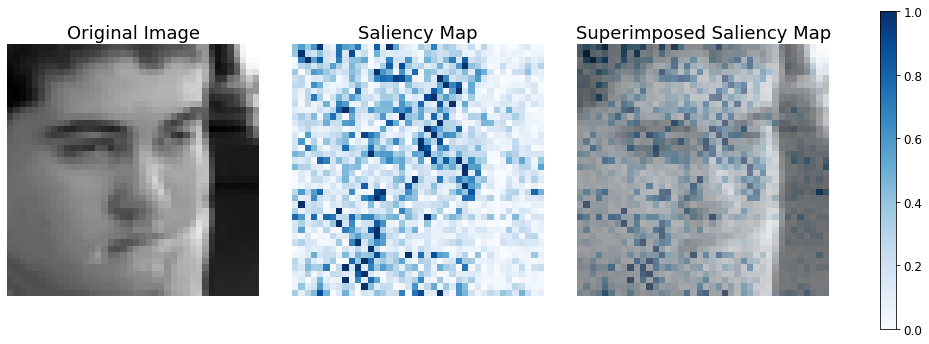
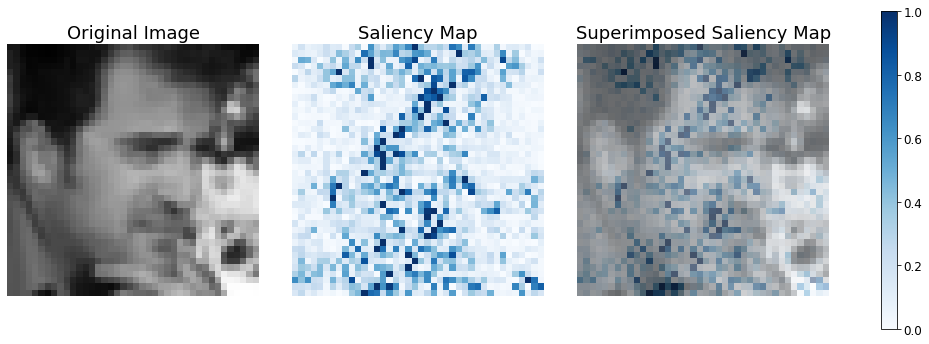
Finish External Image and Real-time capture

diff --git a/application/main.py b/application/main.py
@@ -40,25 +40,27 @@ class MainWindow(QWidget):
         button[1].clicked.connect(self.test_random_image)
         button[2] = QPushButton("Test image", self)
         button[2].clicked.connect(self.test_image)
+        button[3] = QPushButton("Real-time camera detect", self)
+        button[3].clicked.connect(self.camera_detect)
 
         vbox = QVBoxLayout()
         vbox.addWidget(button[0])
         vbox.addWidget(self.model_label)
         vbox.addWidget(button[1])
         vbox.addWidget(button[2])
+        vbox.addWidget(button[3])
         vbox.addStretch(1)
         self.setLayout(vbox)
 
         self.net = None
         print("loading data...")
-        (
-            self.trainloader,
+        (   self.trainloader,
             self.valloader,
             self.testloader,
             self.emotion_mapping,
         ) = get_dataloaders(bs=1)
 
-    # button 0
+    # Button 0
     def load_model(self):
         dlg = QFileDialog()
         dlg.setFileMode(QFileDialog.AnyFile)
@@ -75,6 +77,7 @@ class MainWindow(QWidget):
         self.net.load_state_dict(checkpoint["params"])
         self.net.eval()
 
+    # Button 1
     def test_random_image(self):
         # get image from trainloader
         image, label = next(iter(self.testloader))
@@ -124,6 +127,7 @@ class MainWindow(QWidget):
         plt.savefig("saliency.png", bbox_inches="tight")
         plt.show()
 
+    # Button 2
     def test_image(self):
         dlg = QFileDialog()
         dlg.setFileMode(QFileDialog.AnyFile)
@@ -138,55 +142,95 @@ class MainWindow(QWidget):
         facecasc = cv2.CascadeClassifier('haarcascade_frontalface_default.xml')
         faces = facecasc.detectMultiScale(gray, scaleFactor=1.3, minNeighbors=5)
         for (x, y, w, h) in faces:
-            cv2.rectangle(img, (x, y-50), (x+w, y+h+10), (255, 0, 0), 2)
+            haar_img = cv2.rectangle(img.copy(), (x, y-50), (x+w, y+h+10), (255, 0, 0), 2)
             crop_gray = gray[y:y + h, x:x + w]
-            pil = Image.fromarray(crop_gray)
-            image = custom_imageloader(pil)
-            # image_plt = torch.squeeze(image)
+            dataloader = custom_imageloader(crop_gray)
+            image, _ = next(iter(dataloader))
+            image_plt = torch.squeeze(image)
 
-            # # activate gradients for input image
-            # image = image.to(device)
-            # image.requires_grad_()
+            # activate gradients for input image
+            image = image.to(device)
+            image.requires_grad_()
 
-            # # get prediction and score
-            # output = self.net(image)
-            # prediction = output.argmax()
-            # output_max = output[0, prediction]
+            # get prediction and score
+            output = self.net(image)
+            prediction = output.argmax()
+            output_max = output[0, prediction]
 
-            # # backprop score
-            # output_max.backward()
+            # backprop score
+            output_max.backward()
 
-            # # calculate saliency, rescale between 0 and 1
-            # saliency, _ = torch.max(image.grad.data.abs(), dim=1)
-            # saliency = saliency.reshape(40, 40)
-            # saliency -= saliency.min(1, keepdim=True)[0]
-            # saliency /= saliency.max(1, keepdim=True)[0]
+            # calculate saliency, rescale between 0 and 1
+            saliency, _ = torch.max(image.grad.data.abs(), dim=1)
+            saliency = saliency.reshape(40, 40)
+            saliency -= saliency.min(1, keepdim=True)[0]
+            saliency /= saliency.max(1, keepdim=True)[0]
 
-            # # draw picture
-            # fig, axs = plt.subplots(nrows=1, ncols=3, figsize=(15, 5))
-            # plt.tight_layout()
+            # draw picture
+            fig, axs = plt.subplots(nrows=1, ncols=4, figsize=(15, 5))
+            plt.tight_layout()
 
-            # axs[0].set_title("Image", fontsize=18)
-            # axs[0].imshow(image_plt, cmap="gray")
-            # axs[0].axis("off")
+            axs[0].set_title("Detect Face", fontsize=18)
+            axs[0].imshow(cv2.cvtColor(haar_img, cv2.COLOR_BGR2RGB))
+            axs[0].axis("off")
 
-            # axs[1].set_title("Saliency Map", fontsize=18)
-            # im = axs[1].imshow(saliency.cpu(), cmap="Blues")
-            # axs[1].axis("off")
+            axs[1].set_title("Crop Image", fontsize=18)
+            axs[1].imshow(image_plt, cmap="gray")
+            axs[1].axis("off")
 
-            # pred_str = self.emotion_mapping[prediction.item()]
-            # axs[2].set_title("Predict: " + pred_str, fontsize=18)
-            # axs[2].imshow(image_plt, cmap="gray")
-            # axs[2].imshow(saliency.cpu(), cmap="Blues", alpha=0.4)
-            # axs[2].axis("off")
+            axs[2].set_title("Saliency Map", fontsize=18)
+            im = axs[2].imshow(saliency.cpu(), cmap="Blues")
+            axs[2].axis("off")
 
-            # cbar = fig.colorbar(im, ax=axs.ravel().tolist())
-            # for t in cbar.ax.get_yticklabels():
-            #     t.set_fontsize(12)
+            pred_str = self.emotion_mapping[prediction.item()]
+            axs[3].set_title("Predict: " + pred_str, fontsize=18)
+            axs[3].imshow(image_plt, cmap="gray")
+            axs[3].imshow(saliency.cpu(), cmap="Blues", alpha=0.4)
+            axs[3].axis("off")
 
-            # plt.savefig("saliency.png", bbox_inches="tight")
-            # plt.show()   
+            cbar = fig.colorbar(im, ax=axs.ravel().tolist())
+            for t in cbar.ax.get_yticklabels():
+                t.set_fontsize(12)
 
+            plt.savefig("saliency.png", bbox_inches="tight")
+            plt.show()
+    
+    # Button 3
+    def camera_detect(self):
+        # prevents openCL usage and unnecessary logging messages
+        cv2.ocl.setUseOpenCL(False)
+        
+        # start the webcam feed
+        cap = cv2.VideoCapture(0)
+        
+        while True:
+            ret, frame = cap.read()
+            if not ret:
+                break
+            facecasc = cv2.CascadeClassifier('haarcascade_frontalface_default.xml')
+            gray = cv2.cvtColor(frame, cv2.COLOR_BGR2GRAY)
+            faces = facecasc.detectMultiScale(gray, scaleFactor=1.3, minNeighbors=5)
+            for (x, y, w, h) in faces:
+                cv2.rectangle(frame, (x, y-50), (x+w, y+h+10), (255, 0, 0), 2)
+                crop_gray = gray[y:y + h, x:x + w]
+                dataloader = custom_imageloader(crop_gray)
+                image, _ = next(iter(dataloader))
+
+                # activate gradients for input image
+                image = image.to(device)
+                image.requires_grad_()
+
+                # get prediction and score
+                output = self.net(image)
+                prediction = output.argmax()
+                pred_str = self.emotion_mapping[prediction.item()]
+                cv2.putText(frame, pred_str, (x+20, y-60), cv2.FONT_HERSHEY_SIMPLEX, 1, (255, 255, 255), 2, cv2.LINE_AA)
+            
+            cv2.imshow('Video', cv2.resize(frame, (1600,960), interpolation = cv2.INTER_CUBIC))
+            if cv2.waitKey(1) & 0xFF == ord('q'):
+                break
+        cap.release()
+        cv2.destroyAllWindows()
 
 def main():
     app = QApplication(sys.argv)

diff --git a/application/loader.py b/application/loader.py
@@ -78,7 +78,6 @@ def get_dataloaders(path="fer2013.csv", bs=16):
     fer2013, emotion_mapping = load_data(path)
 
     xtrain, ytrain = prepare_data(fer2013[fer2013["Usage"] == "Training"])
-    print(xtrain[0])
     xval, yval = prepare_data(fer2013[fer2013["Usage"] == "PrivateTest"])
     xtest, ytest = prepare_data(fer2013[fer2013["Usage"] == "PublicTest"])
 
@@ -101,14 +100,19 @@ def get_dataloaders(path="fer2013.csv", bs=16):
 
     return trainloader, valloader, testloader, emotion_mapping
 
-def custom_imageloader(orig_img):
+def custom_imageloader(xtest):
+    height = xtest.shape[0]
+    width = xtest.shape[1]
+    image_array = np.zeros(shape=(1, height, width))
+    image_array[0] = xtest
     mu, st = 0, 255
     test_transform = transforms.Compose(
         [
             transforms.Resize(40),
             transforms.ToTensor(),
-            #transforms.Normalize(mean=(mu,), std=(st,)),
+            transforms.Normalize(mean=(mu,), std=(st,)),
         ]
     )
-    img = test_transform(orig_img)
-    return img
+    test = CustomDataset(image_array, [-1], test_transform)
+    testloader = DataLoader(test, batch_size=1, shuffle=True, num_workers=0)
+    return testloader
